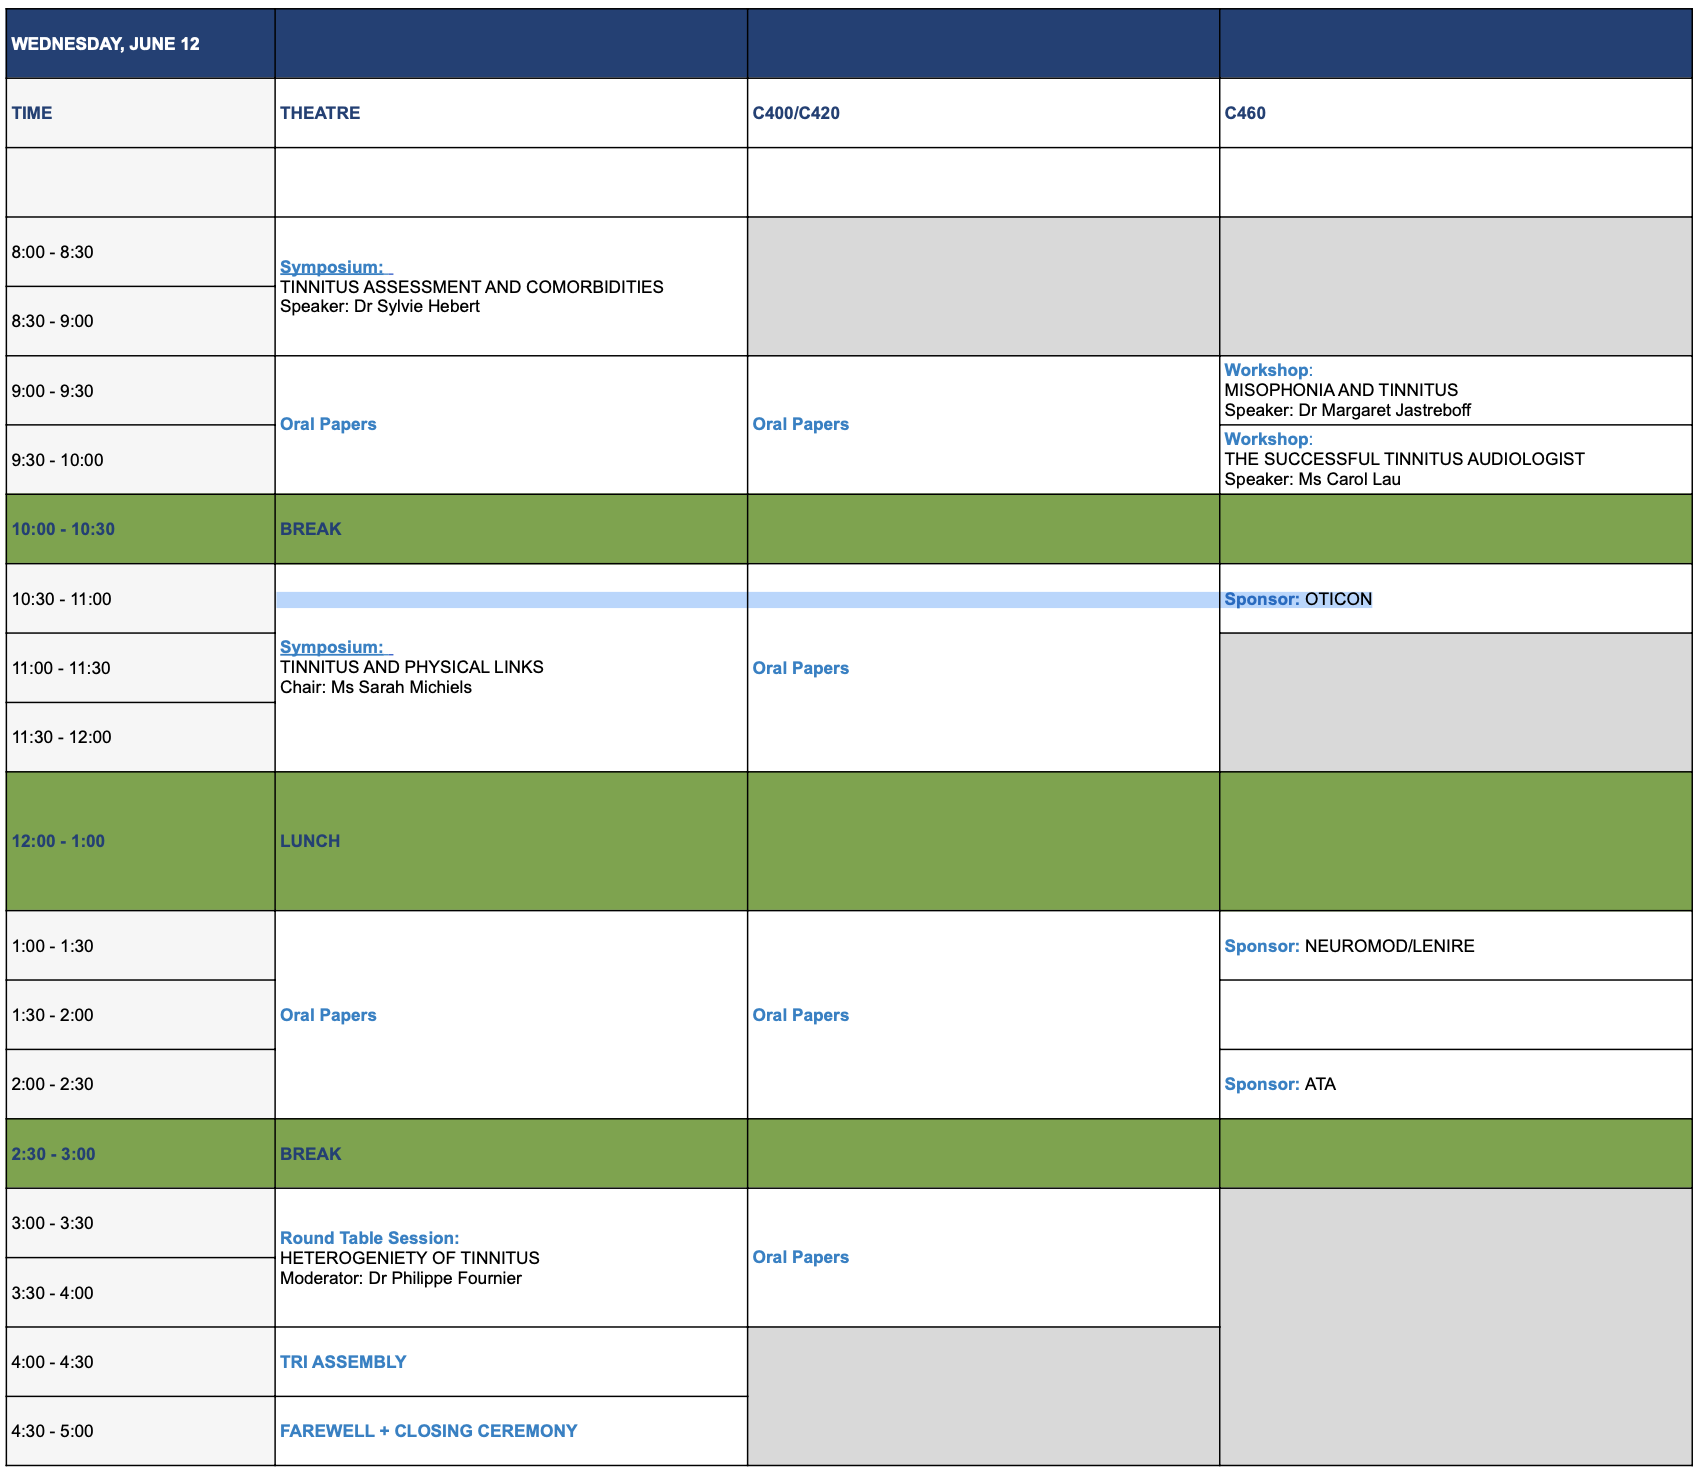
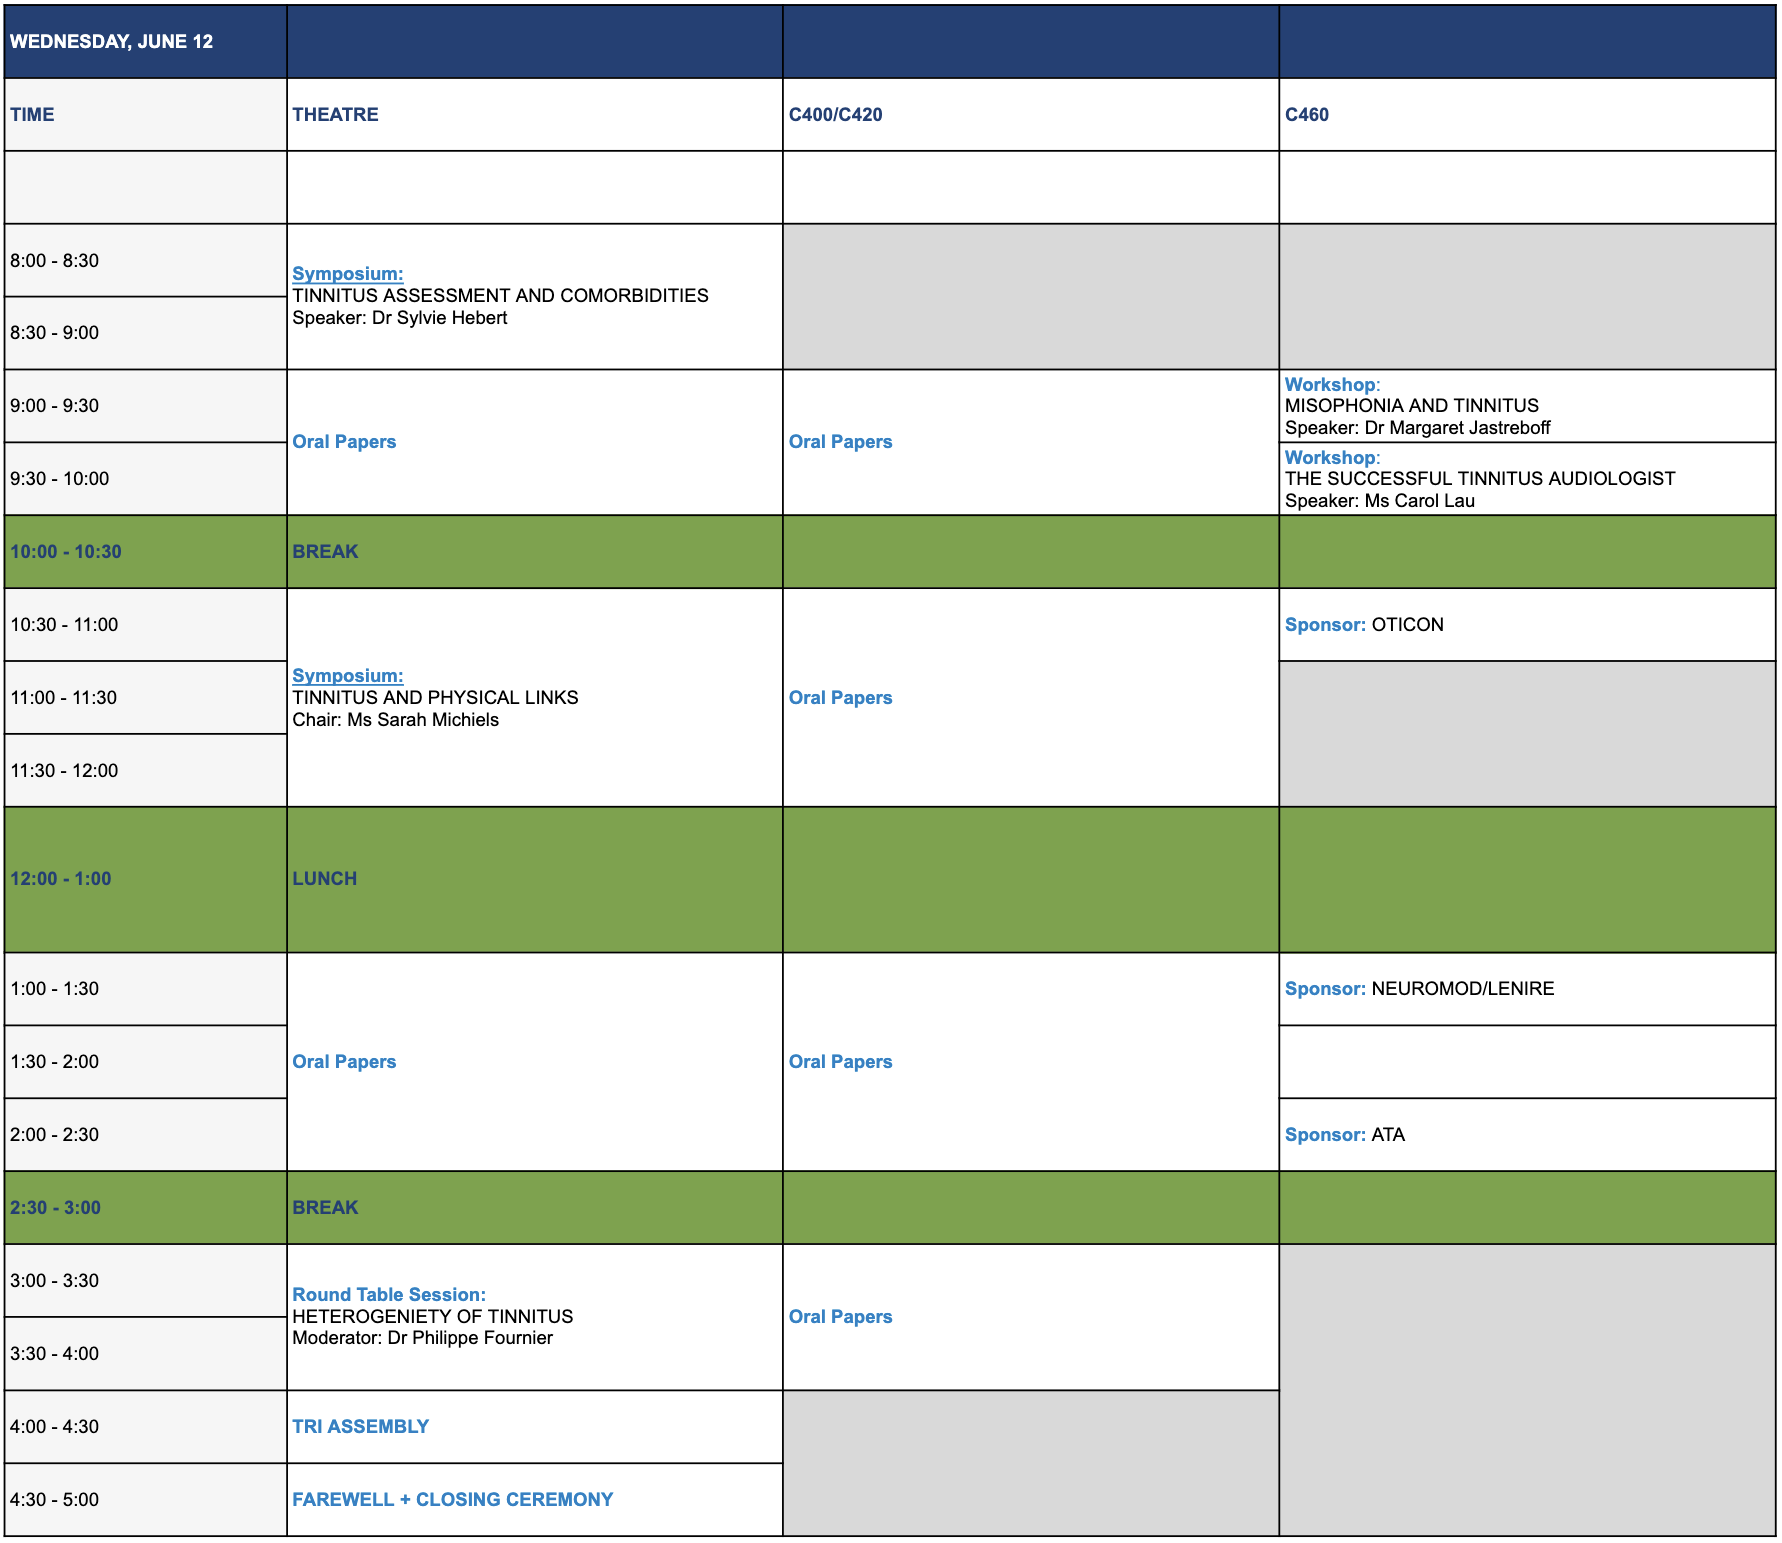
Changes: - Adding pricing for ATA - Adding new schedules - Adding new sponsors

diff --git a/src/NewRegistrationSystem/RegistrationFormNRS.tsx b/src/NewRegistrationSystem/RegistrationFormNRS.tsx
@@ -48,6 +48,7 @@ const RegistrationFormNRS = () => {
   const { width, height } = useWindowDimensions();
   const [nip, setNip] = useState<string>("");
   const [paymentStatus, setPaymentStatus] = useState<any>("");
+  const [ata, setATA] = useState<any>("");
 
   //PageInfo
   const [page, setPage] = useState<number>(0);
@@ -138,12 +139,16 @@ const RegistrationFormNRS = () => {
   const [dietaryGuest, setDietaryGuest] = useState("");
 
   const checkTicket = () => {
-    return ticketType && price > 0 && guest;
+    if (ticketType === "ATA Registration $825 CAD") {
+      return ata === "152" && price > 0 && guest;
+    } else {
+      return ticketType && price > 0 && guest;
+    }
   };
 
   useEffect(() => {
     let values = [
-      "Early Bird (closes 8 March 2024) $825 CAD",
+      "ATA Registration (closes 8 April 2024) $825 CAD",
       "Regular Rate (closes 8 June 2024) $975 CAD",
       "On-site Registration $1475 CAD",
       "Student Rate (requires proof of enrolment – closes 8 June 2024) $625 CAD",
@@ -433,7 +438,6 @@ const RegistrationFormNRS = () => {
                     pointerStrokeColor="#5d9cec"
                   />
                 ),
-                // <progress value={1} />
               }[page]
             }
           </Flex>
@@ -842,7 +846,14 @@ const RegistrationFormNRS = () => {
                       }}
                     >
                       <option value="" selected disabled></option>
-
+                      <option
+                        value={
+                          "ATA Registration (closes 8 April 2024) $825 CAD"
+                        }
+                        style={{ fontSize: `${fontSize}` }}
+                      >
+                        ATA Registration (closes 8 April 2024) $825 CAD{" "}
+                      </option>
                       <option
                         value={"Regular Rate (closes 8 June 2024) $975 CAD"}
                         style={{ fontSize: `${fontSize}` }}
@@ -977,6 +988,21 @@ const RegistrationFormNRS = () => {
                       <div></div>
                     )}
                   </div>
+
+                  {ticketType === "ATA Registration $825 CAD" ? (
+                    <div style={{ marginTop: "1rem" }}>
+                      {" "}
+                      <Text className="">ATA Code</Text>
+                      <TextInput
+                        value={ata}
+                        onChange={(e) => {
+                          setATA(e.target.value);
+                        }}
+                      />
+                    </div>
+                  ) : (
+                    <div></div>
+                  )}
 
                   <div>
                     <Flex

diff --git a/src/AbstractPages/WednesdayJune12th/June12thOticon.tsx b/src/AbstractPages/WednesdayJune12th/June12thOticon.tsx
@@ -1,0 +1,45 @@
+import React from "react";
+import { Flex, Text } from "@mantine/core";
+
+const June12thOticon = () => {
+  return (
+    <div>
+      <div className="mj10-host">
+        <Text>
+          <b>Speaker:</b> Lia Best Au.D., R.AUD, R.HIP. Aud(C), Audiology Field
+          Trainer Oticon Canada
+        </Text>
+      </div>
+
+      <Text className="mj10-text">
+        <b>Abstract:</b> Oticon has been at the forefront of integrating
+        tinnitus sound support into its diverse range of hearing aid models
+        since 2014. This workshop aims to illuminate the advanced features
+        embedded within Oticon&#39;s Tinnitus Sound Support. Participants will
+        also gain insight into the comprehensive suite of resources developed to
+        empower both clinicians and patients in the effective management of
+        tinnitus. This workshop will explore Tinnitus Sound Support in the Genie
+        2.0 programming software. Attendees will receive guidance in navigating
+        the software&#39;s capabilities, specifically focusing on the
+        customization of tinnitus relief sounds. With four broadband noises and
+        three calming, ocean-like sounds, clinicians can fine-tune these options
+        to suit the individual needs of each patient, fostering a personalized
+        and effective intervention for ear-level sound support. There will also
+        be a demonstration of Oticon&#39;s innovative Companion App, which puts
+        some control directly in the hands of users. Participants will discover
+        how this user-friendly app enables real-time adjustments, providing
+        individuals with the flexibility to tailor their tinnitus relief sounds
+        on the go. By the end of this workshop, participants will leave with a
+        deepened understanding of Oticon&#39;s Tinnitus Sound Support,
+        proficiency in using the Genie 2.0 programming software, and insights
+        into leveraging the Companion App for enhanced user experiences. They
+        will also be provided hardcopies of clinician and patient tinnitus
+        management resources. Oticon&#39;s commitment to empowering clinicians
+        and patients in the realm of tinnitus management will be evident through
+        this engaging and informative session.
+      </Text>
+    </div>
+  );
+};
+
+export default June12thOticon;

diff --git a/src/Conference Program/ConferenceProgram.tsx b/src/Conference Program/ConferenceProgram.tsx
@@ -27,6 +27,7 @@ import MondayJune10thHyeracusis from "../AbstractPages/MondayJune10th/MondayJune
 import TuesdayJune11thRound from "../AbstractPages/TuesdayJune11th/TuesdayJune11thRound";
 import TuesdayJune11thEvidenceBased from "../AbstractPages/TuesdayJune11th/TuesdayJune11thEvidenceBased";
 import June12thRoundTable from "../AbstractPages/WednesdayJune12th/June12thRoundTable";
+import June12thOticon from "../AbstractPages/WednesdayJune12th/June12thOticon";
 const ConferenceProgram = () => {
   const { width, height } = useWindowDimensions();
   const [hoverPeter, setHoverPeter] = useState(false);
@@ -198,6 +199,16 @@ const ConferenceProgram = () => {
             time={"9:00 - 9:30"}
             type={"Workshop:"}
             Component={June12thSuccessful}
+          />
+
+          <AbstractDropDown
+            title={
+              "NAVIGATING OTICON'S TINNITUS SOUND SUPPORT IN THE GENIE 2.0"
+            }
+            date={"WEDNESDAY, JUNE 12th"}
+            time={"10:30 - 11:00"}
+            type={"Sponsorship Session:"}
+            Component={June12thOticon}
           />
 
           <AbstractDropDown

diff --git a/src/Sponsorship/Sponsorships.tsx b/src/Sponsorship/Sponsorships.tsx
@@ -8,6 +8,7 @@ import signia from "../Images/Sponsorships/signia.png";
 import neuromod from "../Images/Sponsorships/new_neuro_white.png";
 import widex from "../Images/Sponsorships/widex.jpg";
 import ataImage from "../Images/ATA Logo.jpg";
+import hyperArc from "../Images/HyperacusisResearch.png";
 import useWindowDimensions from "../Components/useWindowsDimensions";
 
 const Sponsorships = () => {
@@ -50,18 +51,8 @@ const Sponsorships = () => {
             <Image width={imageWidth} fit="contain" src={ataImage} />
           </a>
 
-          {/* <Image width={imageWidth} fit="contain" src={comingSoon} /> */}
-          {/* <Image width={imageWidth} fit="contain" src={comingSoon} /> */}
+          <Image width={105} fit="contain" src={hyperArc} />
         </Flex>
-        {/* <Flex justify="center" align="center">
-          <Text
-            size={"3rem"}
-            style={{ fontStyle: "italic" }}
-            className="sponsorships-main-coming-soon-text"
-          >
-            COMING SOON
-          </Text>
-        </Flex> */}
       </div>
     </div>
   );

diff --git a/src/AbstractPages/TuesdayJune11th/TuesdayHowMeasureSuccess.tsx b/src/AbstractPages/TuesdayJune11th/TuesdayHowMeasureSuccess.tsx
@@ -15,11 +15,9 @@ const TuesdayHowMeasureSuccess = () => {
         <ol className="mj10-inner-list">
           <li>Hazel Goedhart, Tinnitus Hub, the Netherlands</li>
           <li>Inge Stegeman, University of Utrecht, The Netherlands</li>
-          <li>Diane Smit, University of Utrecht, The Netherlands</li>
-          <li>
-            Deborah Hall, Heriot-Watt University, United Kingdom (to be
-            confirmed)
-          </li>
+          <li>Adriana Smit, University of Utrecht, The Netherlands</li>
+          <li>Joel Berger, University of Iowa, USA</li>
+          <li>Laura Basso, University Hospital Regensburg, Germany</li>
         </ol>
       </div>
 

diff --git a/src/NewRegistrationSystem/PricingNRS.tsx b/src/NewRegistrationSystem/PricingNRS.tsx
@@ -41,7 +41,7 @@ const PricingNRS = () => {
               Conference from June 10 to 12, 2024 in Vancouver, Canada.
               <br />
               <br />
-              Early Bird, Closes March 8th, 2024
+              ATA Registration, Closes April 8th, 2024
               <br />
               Regular Rate, Closes June 8th, 2024
             </Text>
@@ -67,7 +67,7 @@ const PricingNRS = () => {
 
           <Flex direction={"column"} align={"center"} justify={"center"}>
             <RegistrationComponent
-              regPackage={"Early Bird"}
+              regPackage={"ATA Registration"}
               price={"$825 CAD"}
             />
 

diff --git a/src/AbstractPages/MondayJune10th/MondayJune10th.css b/src/AbstractPages/MondayJune10th/MondayJune10th.css
@@ -34,8 +34,8 @@
   margin-top: 1rem;
   color: var(--var-dark-blue);
   font-size: var(--font-size);
-  margin-left: 1rem;
-  margin-right: 1rem;
+  margin-left: 2rem;
+  margin-right: 2rem;
 }
 
 .mj10-inner-list {
